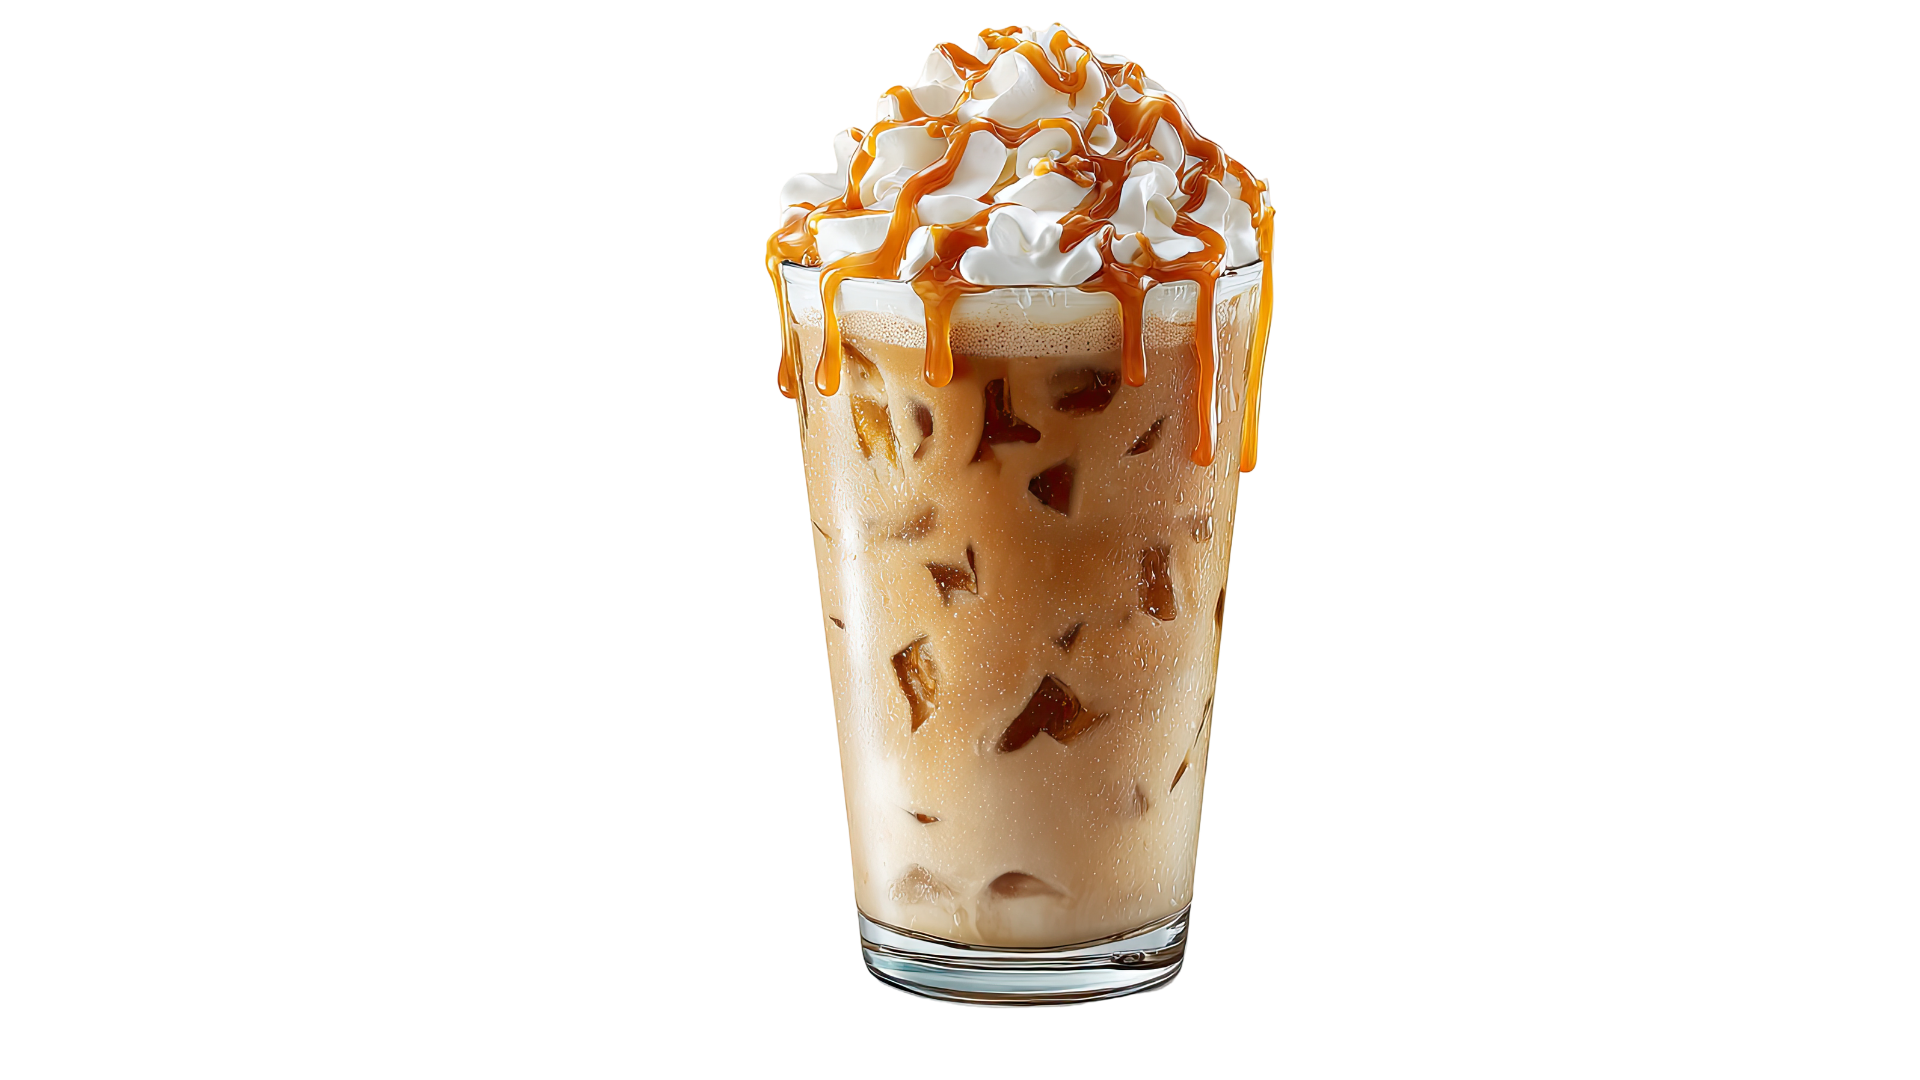
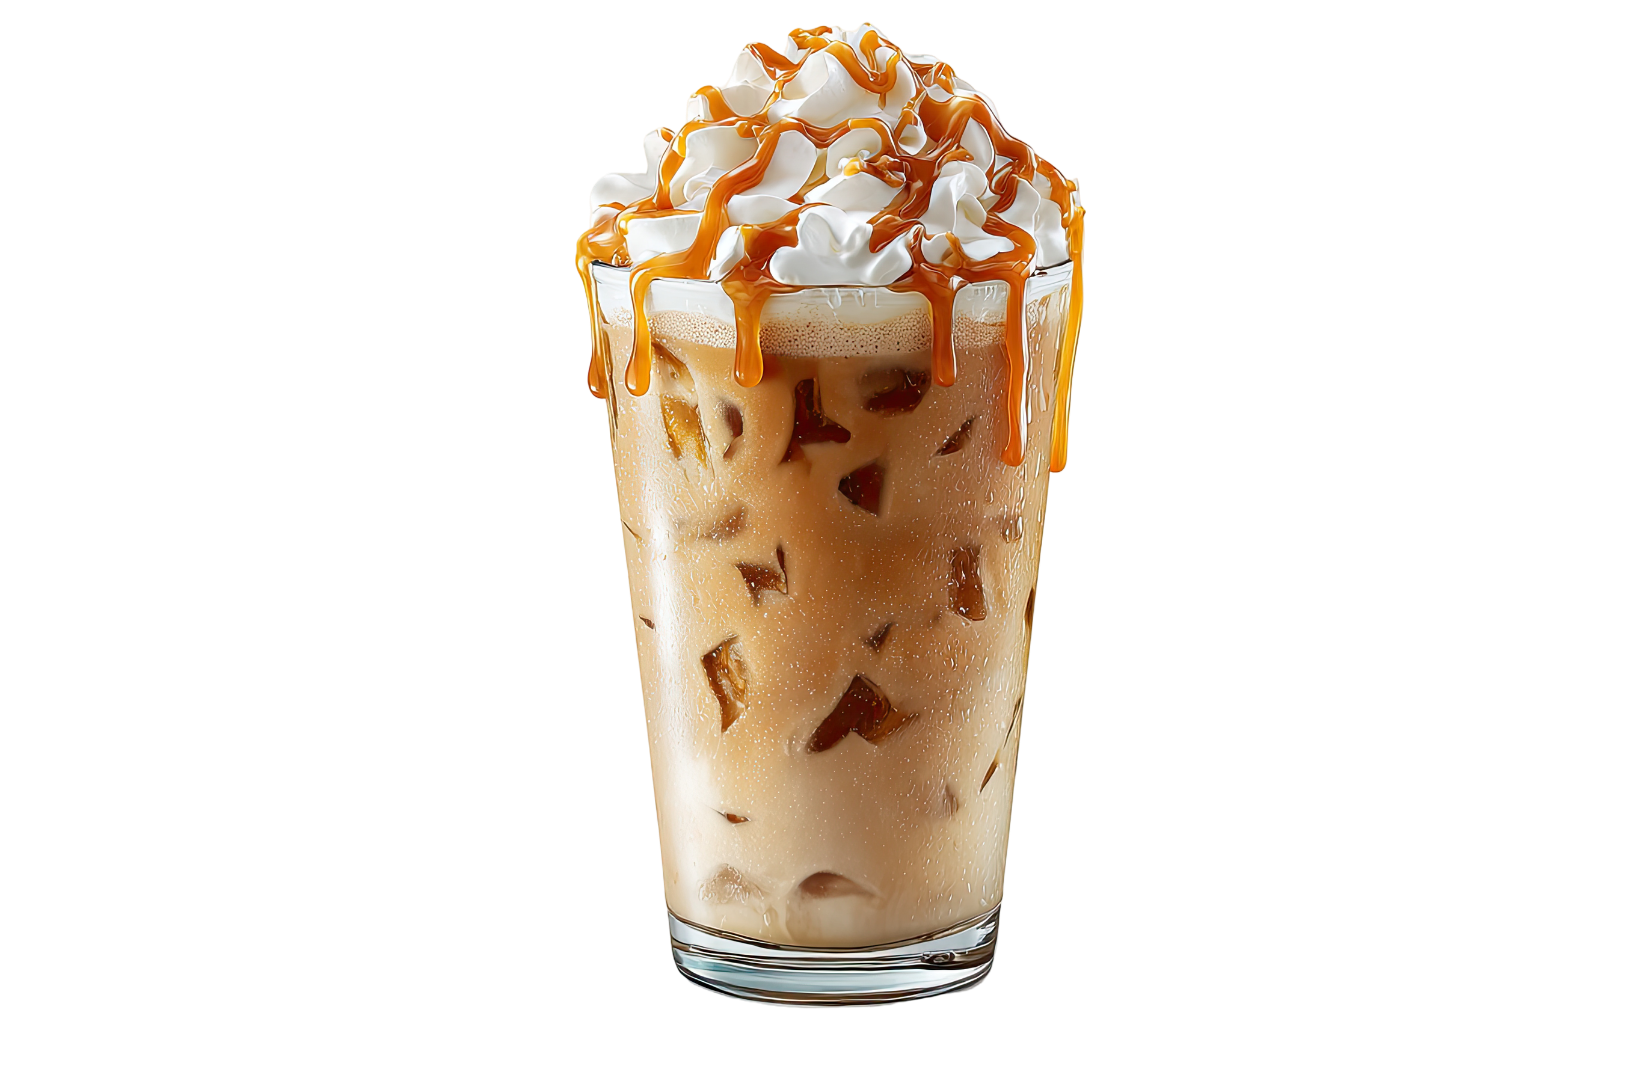
inicial

Changed region(s): [[0.3435, 0.0, 0.6558, 0.9472]]

diff --git a/src/styles/inicial.css b/src/styles/inicial.css
@@ -1,60 +1,215 @@
-/* capa */
+@import url('https://fonts.googleapis.com/css2?family=Poppins:wght@300;400;500;600&display=swap');
+
+body {
+  font-family: "Poppins", sans-serif;
+  background: #f5f5f5;
+  width: 100%;          
+  max-width: 1400px;     
+  margin: 0 auto;        
+  padding: 0 20px;   
+}
+
+/* CAPA  */
 .capa {
   display: flex;
-  justify-content: space-between;
   align-items: center;
-  padding: 5%; /* 🔥 tira espaço lateral */
+  justify-content: space-between;
+  gap: 40px;
 }
 
 .capa h1 {
   color: #54070C;
-  font-size: 48px;
+  font-size: 55px;
   margin: 10px 0;
+  line-height: 1.1; /* deixa mais juntinho */
+}
+
+.capa p {
+  font-size: 18px;
+
 }
 
 .capa img {
-  width: 55%;
+  width: 50%;
+  max-width: 500px; 
+  margin-left: auto; 
 }
 
-/* botão */
 .botao-padrao {
-  background: white;              
-  color: #54070C;                 
-  border: 2px solid #54070C;      
+  background: white;
+  color: #54070C;
+  border: 2px solid #54070C;
 
   padding: 14px 28px;
   border-radius: 30px;
   margin-top: 20px;
 
   cursor: pointer;
-  font-weight: bold;
-  font-size: 14px;
-
-  transition: all 0.3s ease;
+  font-weight: 600;
+  transition: 0.3s;
 }
 
 .botao-padrao:hover {
-  background: #54070C;           
-  color: white;                  
+  background: #54070C;
+  color: white;
 }
 
-/* bebidas */
+/* BEBIDAS */
 .bebidas {
   background: #54070C;
+  border-radius: 20px;
+  max-width: 100%;
+  margin: 140px auto;
+  padding: 100px 40px 50px;
   display: flex;
-  justify-content: space-around;
-  padding: 30px;
-  color: white;
-  margin: 40px auto;       
-  max-width: 85%;       
-  border-radius: 20px;    
+  justify-content: center;
+  align-items: flex-start;
+  gap: 60px;
+  position: relative;
 }
 
 .card-bebida {
-  text-align: center;}
-
-.card-bebida img {
-  width: 55%;
-    margin: 40px auto;       
+  width: 300px;
+  position: relative;
+  text-align: center;
 }
 
+/* circulo  */
+.img-container {
+  width: 250px;
+  height: 250px;
+  background: #e8d5c0;
+  border-radius: 50%;
+  display: flex;
+  align-items: center;
+  justify-content: center;
+  position: absolute;
+  top: -170px;
+  left: 50%;
+  transform: translateX(-50%);
+  overflow: visible;
+}
+
+.card-bebida img {
+  width: 170%;
+  max-width: none;
+  object-fit: contain;
+  transform: translateY(-30px);
+}
+
+.badge {
+  position: absolute;
+  bottom: -10px;
+  background: white;
+  border-radius: 12px;
+  padding: 3px 8px;
+  font-size: 12px;
+  font-weight: 600;
+  box-shadow: 0 2px 5px rgba(0, 0, 0, 0.2);
+}
+
+.nome-bebida {
+  margin-top: 100px;
+  color: white;
+  font-size: 16px;
+}
+
+.texto-final {
+  position: absolute;
+  bottom: 15px;
+  width: 100%;
+  text-align: center;
+  color: white;
+  font-size: 16px;
+}
+
+.estrela {
+  color: gold;
+  font-size: 16px;
+  margin-left: 4px;
+}
+
+
+/* WORKSHOPS */
+
+.workshop-conteudo {
+  display: flex;
+  gap: 40px;
+  align-items: flex-start;
+}
+
+.imgwork .imgworkprincipal {
+  width: 400px;
+  height: 500px;
+  object-fit: cover;
+  border-radius: 20px;
+}
+
+.workshop-texto h2 {
+  font-size: 45px;
+  color: #54070C;
+  margin-bottom: 10px;
+}
+
+.workshop-texto p {
+  font-size: 20px;
+}
+
+.link-cursos {
+  color: black;
+  font-weight: bold;
+  text-decoration: underline;
+  font-size: 16px;
+}
+
+/* RESPONSIVO */
+@media (max-width: 768px) {
+
+  .capa {
+    flex-direction: column;
+    text-align: center;
+  }
+
+  .capa img {
+    order: -1;
+    width: 90%;
+    max-width: 350px;
+    margin: 0 auto 20px;
+  }
+  .capa h1 {
+    font-size: 32px;
+  }
+
+  .bebidas {
+    flex-direction: column;
+    align-items: center;
+    gap: 120px;
+    padding: 100px 20px 60px;
+  }
+
+  .card-bebida {
+    width: 220px;
+  }
+
+  .img-container {
+    width: 180px;
+    height: 180px;
+    top: -10px;
+    z-index: 1;
+  }
+  .card-bebida img {
+    width: 150%;
+    transform: translateY(-20px);
+  }
+  .nome-bebida {
+    margin-top: 190px;
+    color: aliceblue;
+    position: relative;
+    z-index: 2;
+  }
+
+  .texto-final {
+    position: relative;
+    margin-top: 30px;
+  }
+}

diff --git a/src/paginas/Inicial.jsx b/src/paginas/Inicial.jsx
@@ -10,16 +10,19 @@ import cafeImg from "../assets/cafeinicial.png";
 import caramelo from "../assets/caramelogelado.png";
 import latte from "../assets/lattedourado.png";
 import choco from "../assets/chocolima.png";
+import preparo from "../assets/preparo.png";
+import barista from "../assets/barista.png";
+
 
 export default function Inicial() {
   return (
     <div>
-      <Navbar/>
+      <Navbar />
       <section className="capa">
         <div>
           <p className="sub">Desde 1984</p>
           <h1>AROMA LIMA</h1>
-          <p>Mais que café, uma experiência.</p>
+          <p>Mais que café,uma experiência.</p>
 
           <button className="botao-padrao">
             Confira nossos cafés
@@ -33,7 +36,35 @@ export default function Inicial() {
         <CardBebida nome="Caramelo Gelado" imagem={caramelo} />
         <CardBebida nome="Latte Dourado" imagem={latte} />
         <CardBebida nome="Choco Lima" imagem={choco} />
+
+        <p className="texto-final">
+          Deseja experimentar um café especial? Acesse agora.
+        </p>
       </section>
+
+      {/* WORKSHOPS */}
+      <section className="workshops">
+        <div className="workshop-conteudo">
+          <div className="imgwork">
+            <img src={barista} alt="Mão derramando café" className="imgworkprincipal" />
+          </div>
+
+          <div className="workshop-info">
+            <div className="workshop-texto">
+              <h2>Aprenda a arte do café</h2>
+              <p>Participe dos nossos workshops e</p> 
+              <p>descubra técnicas de preparo,</p>
+              <p>moagem e extração.</p>
+            </div>
+
+            <a href="#" className="link-cursos">
+              Confira mais cursos e workshops ↗
+            </a>
+          </div>
+
+        </div>
+      </section>
+
     </div>
   );
 }

diff --git a/src/componentes/CardBebida.jsx b/src/componentes/CardBebida.jsx
@@ -1,10 +1,19 @@
-import React from "react";
+import { FaStar } from "react-icons/fa";
 
-export default function CardBebida({ nome, imagem }) {
+export default function CardBebida({ nome, imagem, nota = "5.0" }) {
   return (
     <div className="card-bebida">
-      <img src={imagem} alt={nome} />
-      <p>{nome}</p>
+      <div className="img-container">
+        <img src={imagem} alt={nome} />
+
+        <div className="badge">
+          <span className="nota">{nota}</span>
+
+          <FaStar className="estrela" />
+        </div>
+      </div>
+
+      <p className="nome-bebida">{nome}</p>
     </div>
   );
 }

diff --git a/src/App.css b/src/App.css
@@ -19,7 +19,7 @@
 
 .capa {
   position: relative;
-
+  
   .base,
   .framework,
   .vite {